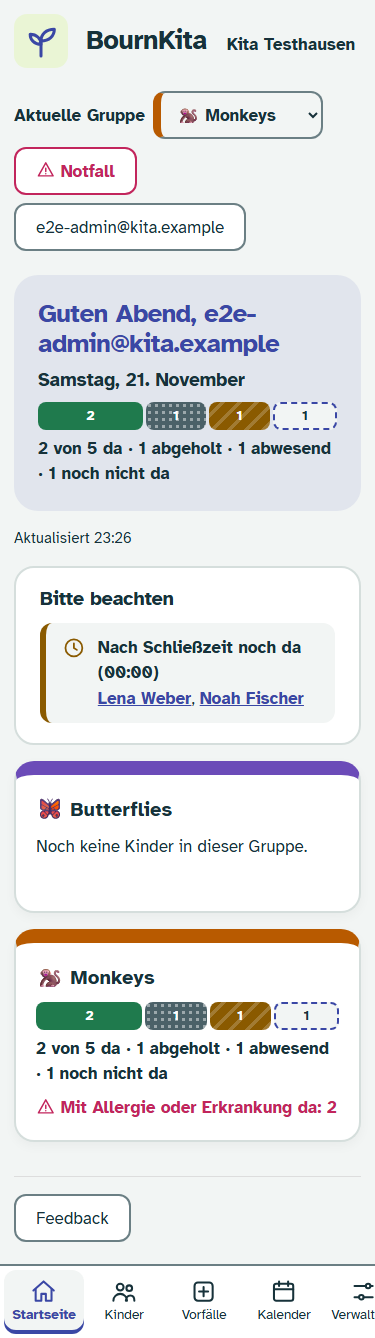
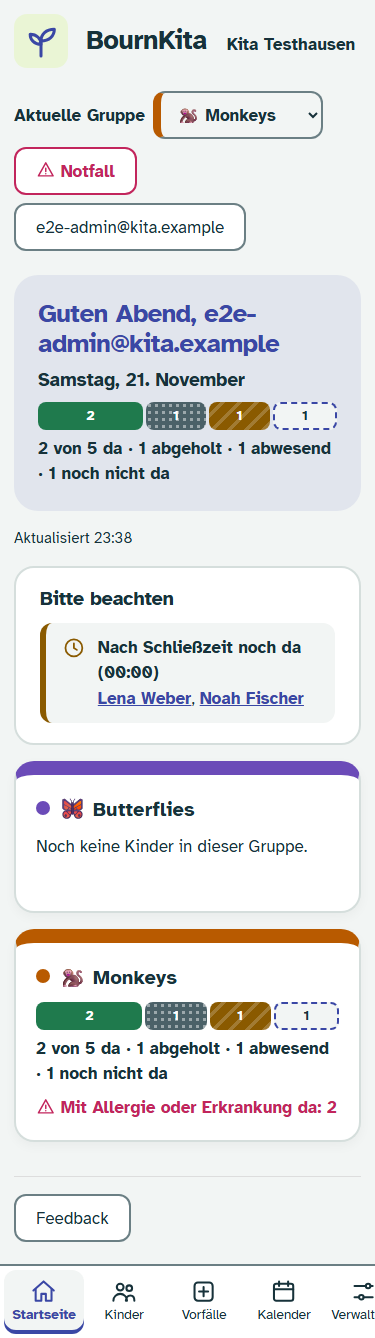
Fixes from the review of Symbols and Group colours (#61)
A Group's colour now shows as a dot wherever its name does. Editing a Child
marks the Symbols other Children in their Group already have, and a move
refused for a taken Symbol links to choosing another. The update gives
current Children their Symbols before archived ones. The API says Symbol
and Group colour by type, the printed list's Symbol names are checked for
completeness, each backend test starts the helper's Symbols afresh, and
stale comments are fixed.

Changed region(s): [[0.088, 0.5822, 0.528, 0.6129], [0.088, 0.7048, 0.4693, 0.7354], [0.3227, 0.3984, 0.352, 0.429]]

diff --git a/frontend/src/ChildForm.tsx b/frontend/src/ChildForm.tsx
@@ -1,7 +1,7 @@
-import { useState, type FormEvent } from 'react'
+import { useEffect, useState, type FormEvent } from 'react'
 import { useTranslation } from 'react-i18next'
 import { Link, useNavigate } from 'react-router-dom'
-import { genderLabel, saveChild, type Child, type ChildDetails, type Gender, type Refusal } from './api'
+import { fetchChildren, genderLabel, saveChild, type ChildDetails, type ChildProfile, type ChildSymbol, type Gender, type Refusal } from './api'
 import { kitaToday } from './dates'
 import SymbolPicker from './SymbolPicker'
 
@@ -10,7 +10,7 @@ type Problem = Refusal | 'somethingWentWrong' | null
 const empty: ChildDetails = { firstName: '', lastName: '', gender: null, languages: '', foodPreferences: '', interests: '', dateOfBirth: null, symbol: 'apple' }
 
 /** Creates a Child profile, or edits `child`. Admins only; shows the profile once saved. */
-export default function ChildForm({ child }: { child?: Child }) {
+export default function ChildForm({ child }: { child?: ChildProfile }) {
   const { t } = useTranslation()
   const navigate = useNavigate()
   const [details, setDetails] = useState<ChildDetails>(() => {
@@ -20,6 +20,15 @@ export default function ChildForm({ child }: { child?: Child }) {
     return { firstName, lastName, gender, languages, foodPreferences, interests, dateOfBirth, symbol }
   })
   const [problem, setProblem] = useState<Problem>(null)
+  // The Symbols the other Children in this Child's Group have; a new Child is in no Group yet.
+  const [taken, setTaken] = useState<ReadonlySet<ChildSymbol>>(new Set())
+  const groupId = child?.group?.id ?? null
+  useEffect(() => {
+    if (groupId === null) return
+    fetchChildren('', groupId)
+      .then((others) => setTaken(new Set(others.filter((other) => other.id !== child?.id).map((other) => other.symbol))))
+      .catch(() => undefined)
+  }, [groupId, child?.id])
   const [submitting, setSubmitting] = useState(false)
 
   function field(name: Exclude<keyof ChildDetails, 'gender' | 'dateOfBirth' | 'symbol'>) {
@@ -78,7 +87,7 @@ export default function ChildForm({ child }: { child?: Child }) {
           onChange={(event) => setDetails({ ...details, dateOfBirth: event.target.value || null })}
         />
       </label>
-      <SymbolPicker value={details.symbol} onChange={(symbol) => setDetails({ ...details, symbol })} />
+      <SymbolPicker value={details.symbol} taken={taken} onChange={(symbol) => setDetails({ ...details, symbol })} />
       <label>
         {t('languagesSpoken')}
         <input maxLength={200} {...field('languages')} />

diff --git a/frontend/src/index.css b/frontend/src/index.css
@@ -22,9 +22,8 @@
   --warn-light: #fff0c7;
   /* Quieter text on the chalkboard (headings in the sidebar, the Role). */
   --on-chalkboard-muted: #bbc4c1;
-  /* The shell: the sidebar's width, and the room kept below content for the phone's tab bar. */
-  /* Group colours: a paper fill (chalkboard text on it, 4.5:1 or more) and an accent for edges
-     and dots on the page (3:1 or more). Every Group colour is shown with the Group's name. */
+  /* Group colours: a paper fill (ink text on it, 4.5:1 or more in both themes) and an accent for
+     edges and dots on the page (3:1 or more). Every Group colour is shown with the Group's name. */
   --g-orange: #f6a14a;
   --g-orange-accent: #b85a00;
   --g-lilac: #b9a0ec;
@@ -41,6 +40,7 @@
   --g-teal-accent: #1f7a72;
   --g-sand: #d9c29a;
   --g-sand-accent: #7a6230;
+  /* The shell: the sidebar's width, and the room kept below content for the phone's tab bar. */
   --sidebar-width: 248px;
   --tab-bar-room: 96px;
   /* The names the app's rules use, pointing at the colours above. */
@@ -252,7 +252,23 @@ h1 a {
 .group-colour-teal { --group-fill: var(--g-teal); --group-accent: var(--g-teal-accent); }
 .group-colour-sand { --group-fill: var(--g-sand); --group-accent: var(--g-sand-accent); }
 
-/* Choosing a Child's Symbol: a grid of pictures, the chosen one framed. */
+/* A Group's colour as a dot before its name. */
+.group-dot {
+  display: inline-block;
+  width: 0.7em;
+  height: 0.7em;
+  margin-right: 0.4em;
+  vertical-align: 0.05em;
+  background: var(--group-accent);
+  border-radius: 50%;
+}
+
+/* Choosing a Child's Symbol: a grid of pictures, the chosen one framed, taken ones faded. */
+.symbols label.taken {
+  opacity: 0.45;
+  border-style: dashed;
+}
+
 .symbols {
   display: grid;
   grid-template-columns: repeat(auto-fill, minmax(56px, 1fr));

diff --git a/frontend/src/SymbolPicker.tsx b/frontend/src/SymbolPicker.tsx
@@ -3,9 +3,16 @@ import { useTranslation } from 'react-i18next'
 import { childSymbols, type ChildSymbol as SymbolName } from './api'
 import ChildSymbol from './ChildSymbol'
 
+type Props = {
+  value: SymbolName
+  onChange: (symbol: SymbolName) => void
+  /** The Symbols other Children in the Group have: marked, since choosing one is refused. */
+  taken?: ReadonlySet<SymbolName>
+}
+
 /** Choosing a Child's Symbol, as on their coat hook: each picture a radio button named by it.
  * Another Child in the same Group may not have the one chosen; the server says so. */
-export default function SymbolPicker({ value, onChange }: { value: SymbolName; onChange: (symbol: SymbolName) => void }) {
+export default function SymbolPicker({ value, onChange, taken = new Set() }: Props) {
   const { t } = useTranslation()
   const labelId = useId()
   const name = useId()
@@ -15,10 +22,10 @@ export default function SymbolPicker({ value, onChange }: { value: SymbolName; o
         {t('symbol')}
       </span>
       {childSymbols.map((option) => (
-        <label key={option}>
+        <label key={option} className={taken.has(option) ? 'taken' : undefined}>
           <input type="radio" name={name} value={option} checked={value === option} onChange={() => onChange(option)} />
           <ChildSymbol symbol={option} />
-          <span className="visually-hidden">{t(`symbol_${option}`)}</span>
+          <span className="visually-hidden">{taken.has(option) ? t('symbolTakenInGroup', { name: t(`symbol_${option}`) }) : t(`symbol_${option}`)}</span>
         </label>
       ))}
     </div>

diff --git a/frontend/src/api.ts b/frontend/src/api.ts
@@ -204,10 +204,10 @@ export async function resetPassword(token: string, password: string): Promise<tr
 export type Gender = 'girl' | 'boy' | 'diverse'
 // Each Gender's translation key.
 export const genderLabel = { girl: 'genderGirl', boy: 'genderBoy', diverse: 'genderDiverse' } as const
-// A Child as the list shows it: the name only.
 // The Symbols a Child can have, as on their coat hook; no two Children in a Group share one.
 export const childSymbols = ['apple', 'cloud', 'drop', 'fish', 'flower', 'heart', 'house', 'kite', 'leaf', 'moon', 'star', 'sun', 'boat', 'tree', 'car', 'bell', 'ball', 'bird', 'butterfly', 'snail', 'mushroom', 'umbrella', 'rainbow', 'key', 'drum', 'train', 'cherry', 'carrot', 'cat', 'shell'] as const
 export type ChildSymbol = (typeof childSymbols)[number]
+// A Child as a list shows it: the name and the Symbol.
 export type ChildSummary = { id: number; firstName: string; lastName: string; symbol: ChildSymbol }
 // What an Admin enters for a Child profile; gender is null when not stated.
 export type ChildDetails = {
@@ -292,7 +292,6 @@ export async function fetchArchive(): Promise<ArchivedChild[] | Refusal> {
   return (await response.json()) as ArchivedChild[]
 }
 
-/** Makes an archived Child current again, with all its data. Admins only. Resolves to true once restored. */
 /** Restores an archived Child; `symbol` gives them another Symbol, when theirs was taken in their
  * Group meanwhile. */
 export async function restoreChild(id: number, symbol?: ChildSymbol): Promise<true | Refusal> {

diff --git a/frontend/src/Children.test.tsx b/frontend/src/Children.test.tsx
@@ -202,6 +202,22 @@ describe('child profiles', () => {
     expect(await screen.findByRole('alert')).toHaveTextContent('Please enter a first and a last name.')
   })
 
+  it('marks the symbols other Children in the Group already have', async () => {
+    const monkeys = { id: 5, name: 'Monkeys', icon: 'monkey', colour: 'orange' }
+    fakeApi({
+      'GET /api/health': health,
+      'GET /api/session': sessionAs('admin'),
+      'GET /api/children/7': { status: 200, body: { ...lena, ...noProfileLists, group: monkeys } },
+      'GET /api/children?search=&groupId=5': { status: 200, body: [lenaSummary, { ...mia, symbol: 'boat' }] },
+    })
+    renderAt('/children/7/edit', <App />)
+
+    const symbols = await screen.findByRole('radiogroup', { name: 'Symbol' })
+    expect(await within(symbols).findByRole('radio', { name: 'Boat (taken in this Group)' })).toBeInTheDocument()
+    // The Child's own is not taken.
+    expect(within(symbols).getByRole('radio', { name: 'Kite' })).toBeChecked()
+  })
+
   it('says when another Child in the Group already has the chosen symbol', async () => {
     fakeApi({
       'GET /api/health': health,

diff --git a/frontend/src/i18n.ts b/frontend/src/i18n.ts
@@ -512,6 +512,8 @@ export const resources = {
       currentGroup: 'Current Group',
       symbol: 'Symbol',
       restoreWithSymbol: 'Restore {{name}} with this symbol',
+      symbolTakenInGroup: '{{name}} (taken in this Group)',
+      chooseAnotherSymbol: 'Choose another symbol',
       symbolTaken: 'Another Child in this Group has this symbol. Please choose another.',
       symbol_apple: 'Apple',
       symbol_cloud: 'Cloud',
@@ -1099,6 +1101,8 @@ export const resources = {
       currentGroup: 'Aktuelle Gruppe',
       symbol: 'Symbol',
       restoreWithSymbol: '{{name}} mit diesem Symbol wiederherstellen',
+      symbolTakenInGroup: '{{name}} (in dieser Gruppe vergeben)',
+      chooseAnotherSymbol: 'Anderes Symbol wählen',
       symbolTaken: 'Ein anderes Kind in dieser Gruppe hat dieses Symbol. Bitte ein anderes wählen.',
       symbol_apple: 'Apfel',
       symbol_cloud: 'Wolke',

diff --git a/frontend/src/GroupLabel.tsx b/frontend/src/GroupLabel.tsx
@@ -1,9 +1,11 @@
 import { groupIcons, type GroupDetails } from './api'
 
-/** A Group's icon and name; the icon is decoration, so the Group is named by its name alone. */
+/** A Group's colour, icon and name; colour and icon are decoration, so the Group is named by its
+ * name alone, and the colour never says anything on its own. */
 export default function GroupLabel({ group }: { group: GroupDetails }) {
   return (
     <>
+      {group.colour && <span className={`group-dot group-colour-${group.colour}`} aria-hidden="true" />}
       <span aria-hidden="true">{groupIcons[group.icon]}</span> {group.name}
     </>
   )

diff --git a/frontend/src/Groups.test.tsx b/frontend/src/Groups.test.tsx
@@ -118,6 +118,7 @@ describe('Groups', () => {
     await userEvent.selectOptions(choice, '6')
 
     expect(await screen.findByRole('alert')).toHaveTextContent('Another Child in this Group has this symbol. Please choose another.')
+    expect(screen.getByRole('link', { name: 'Choose another symbol' })).toHaveAttribute('href', '/children/7/edit')
   })
 
   it('shows Teachers a Child’s Group without changing it', async () => {

diff --git a/frontend/src/ChildGroup.tsx b/frontend/src/ChildGroup.tsx
@@ -47,6 +47,7 @@ export default function ChildGroup({ child, canEdit, reload }: Props) {
           <GroupOptions groups={groups ?? (child.group ? [child.group] : [])} />
         </select>
         <ProblemAlert problem={problem} />
+        {problem === 'symbolTaken' && <Link to={`/children/${child.id}/edit`}>{t('chooseAnotherSymbol')}</Link>}
       </dd>
     </>
   )

diff --git a/backend/src/kita/migrations/versions/0024_child_symbols.py b/backend/src/kita/migrations/versions/0024_child_symbols.py
@@ -1,7 +1,8 @@
 """Children get a Symbol, as on their coat hook: unique within each Group
 
-Each Group's Children, archived ones too, get the Symbols in turn by name; Children in no Group
-likewise among themselves.
+Each Group's Children get the Symbols in turn by name, the current ones first, then the archived
+ones; Children in no Group likewise among themselves. Only a Group of more than 30 Children could
+get one twice (an archived Child would then choose another when restored).
 
 Revision ID: 0024
 Revises: 0023
@@ -56,6 +57,7 @@ def upgrade() -> None:
         sa.column("first_name", sa.String),
         sa.column("last_name", sa.String),
         sa.column("symbol", sa.String),
+        sa.column("archived_at", sa.DateTime),
     )
     child_groups = sa.table(
         "child_groups", sa.column("child_id", sa.Integer), sa.column("group_id", sa.Integer)
@@ -64,7 +66,12 @@ def upgrade() -> None:
     rows = connection.execute(
         sa.select(children.c.id, child_groups.c.group_id)
         .select_from(children.outerjoin(child_groups, child_groups.c.child_id == children.c.id))
-        .order_by(children.c.first_name, children.c.last_name, children.c.id)
+        .order_by(
+            children.c.archived_at.is_not(None),
+            children.c.first_name,
+            children.c.last_name,
+            children.c.id,
+        )
     ).all()
     taken: dict[int | None, int] = {}
     for child_id, group_id in rows:

diff --git a/backend/tests/children.py b/backend/tests/children.py
@@ -16,18 +16,23 @@ LENA = {
 }
 
 
-# The Symbols in turn, so that the Children a test creates can share a Group.
-_SYMBOLS = cycle(
-    ["apple", "cloud", "drop", "fish", "flower", "heart", "house", "kite", "leaf", "moon"]
-)
-
-
+# The Symbols create_child hands out in turn, so that a test's Children can share a Group; each
+# test starts again at the first (see reset_symbols).
+_IN_TURN = ["apple", "cloud", "drop", "fish", "flower", "heart", "house", "kite", "leaf", "moon"]
+_symbols = cycle(_IN_TURN)
 # The Symbol each Child got from create_child, by ID.
 _symbol_of: dict[int, str] = {}
 
 
+def reset_symbols() -> None:
+    """Starts the Symbols in turn again and forgets the Children: before each test."""
+    global _symbols
+    _symbols = cycle(_IN_TURN)
+    _symbol_of.clear()
+
+
 def create_child(admin: TestClient, **changes: Any) -> int:
-    response = admin.post("/api/children", json={**LENA, "symbol": next(_SYMBOLS), **changes})
+    response = admin.post("/api/children", json={**LENA, "symbol": next(_symbols), **changes})
     assert response.status_code == 201, response.text
     child_id: int = response.json()["id"]
     _symbol_of[child_id] = response.json()["symbol"]

diff --git a/backend/tests/conftest.py b/backend/tests/conftest.py
@@ -11,6 +11,7 @@ from kita.db import metadata, migrate
 from kita.encryption import new_key
 from kita.settings import Settings
 from tests.accounts import create_admin, log_in, onboard
+from tests.children import reset_symbols
 from tests.fakes import FixedClock, MemoryFileStore, OutageMailer, RecordingCrashSink
 
 
@@ -46,6 +47,12 @@ def empty_database(settings: Settings) -> None:
         if tables:
             connection.execute(text(f"TRUNCATE {tables} RESTART IDENTITY CASCADE"))
     engine.dispose()
+
+
+@pytest.fixture(autouse=True)
+def symbols_in_turn() -> None:
+    """Each test's Children get the Symbols in the same turn, whatever ran before."""
+    reset_symbols()
 
 
 @pytest.fixture
